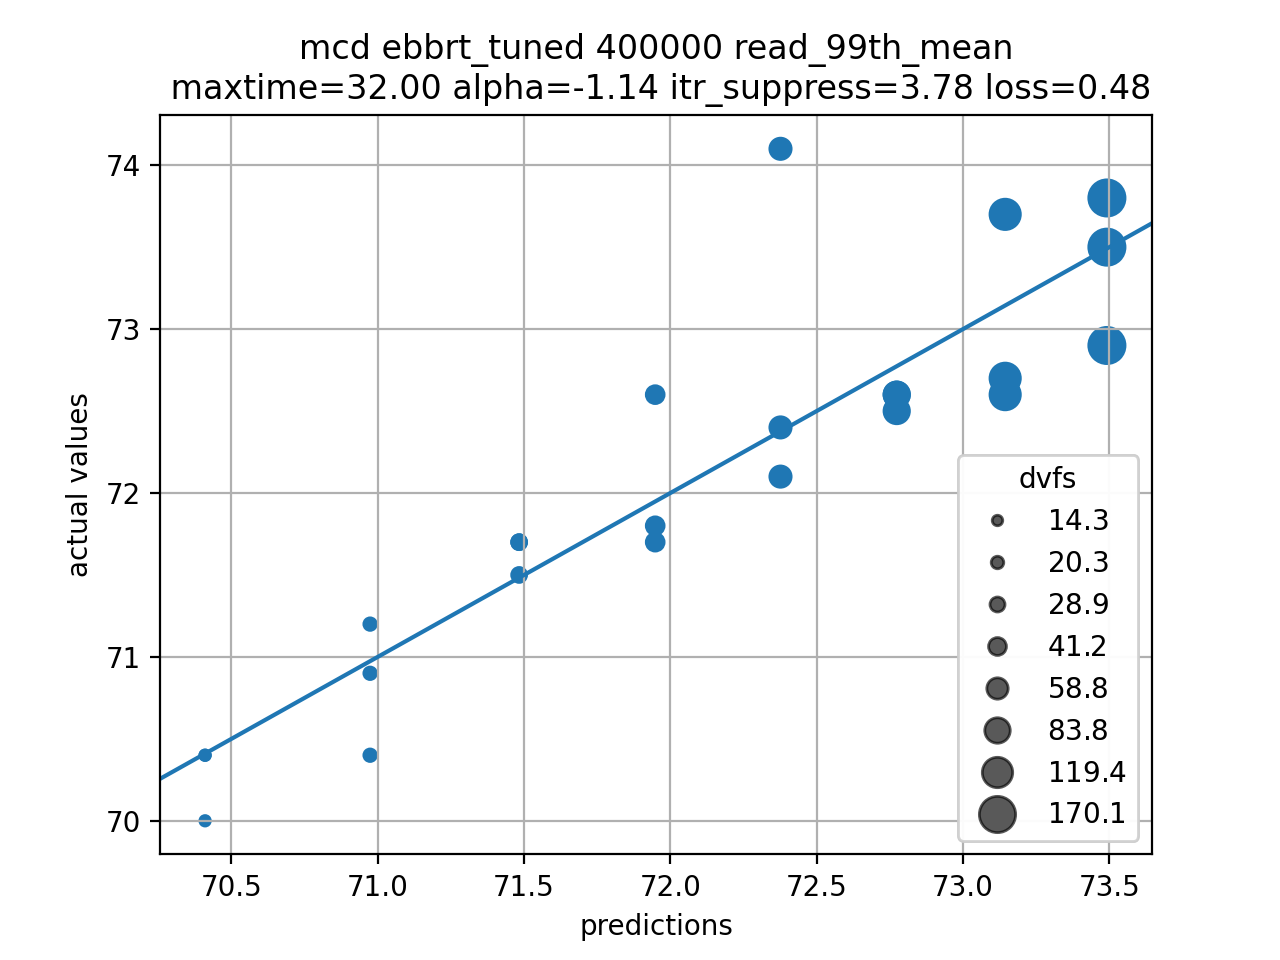
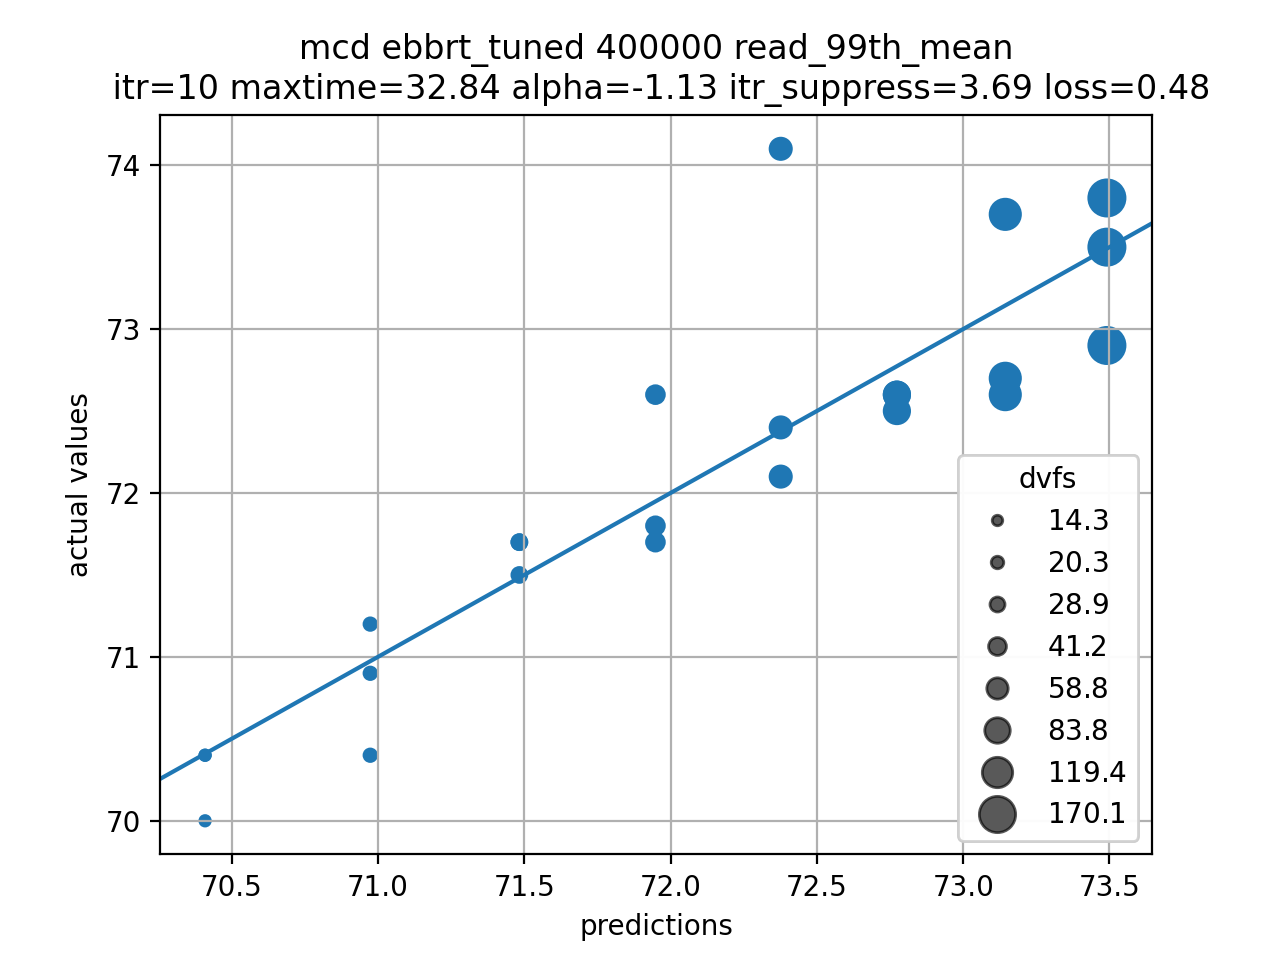
Added itr values to the titles of plots

Changed region(s): [[0.0938, 0.0625, 0.9375, 0.125], [0.375, 0.9062, 0.4375, 0.9375], [0.75, 0.9062, 0.7812, 0.9375]]

diff --git a/analysis/timefit.py b/analysis/timefit.py
@@ -93,7 +93,7 @@ def run(n_iter=2000,
 
             #plotting
             fig, ax = plt.subplots()
-            plt.title(f"{workload} {sys} {qps} {target_col}\n maxtime={params['max_time']:.2f} alpha={params['alpha']:.2f} itr_suppress={params['itr_suppress']:.2f} loss={params['sqrt_loss']:.2f}")
+            plt.title(f"{workload} {sys} {qps} {target_col}\n itr={itr} maxtime={params['max_time']:.2f} alpha={params['alpha']:.2f} itr_suppress={params['itr_suppress']:.2f} loss={params['sqrt_loss']:.2f}")
             plt.xlabel(u"predictions")
             plt.ylabel(u"actual values")
 
